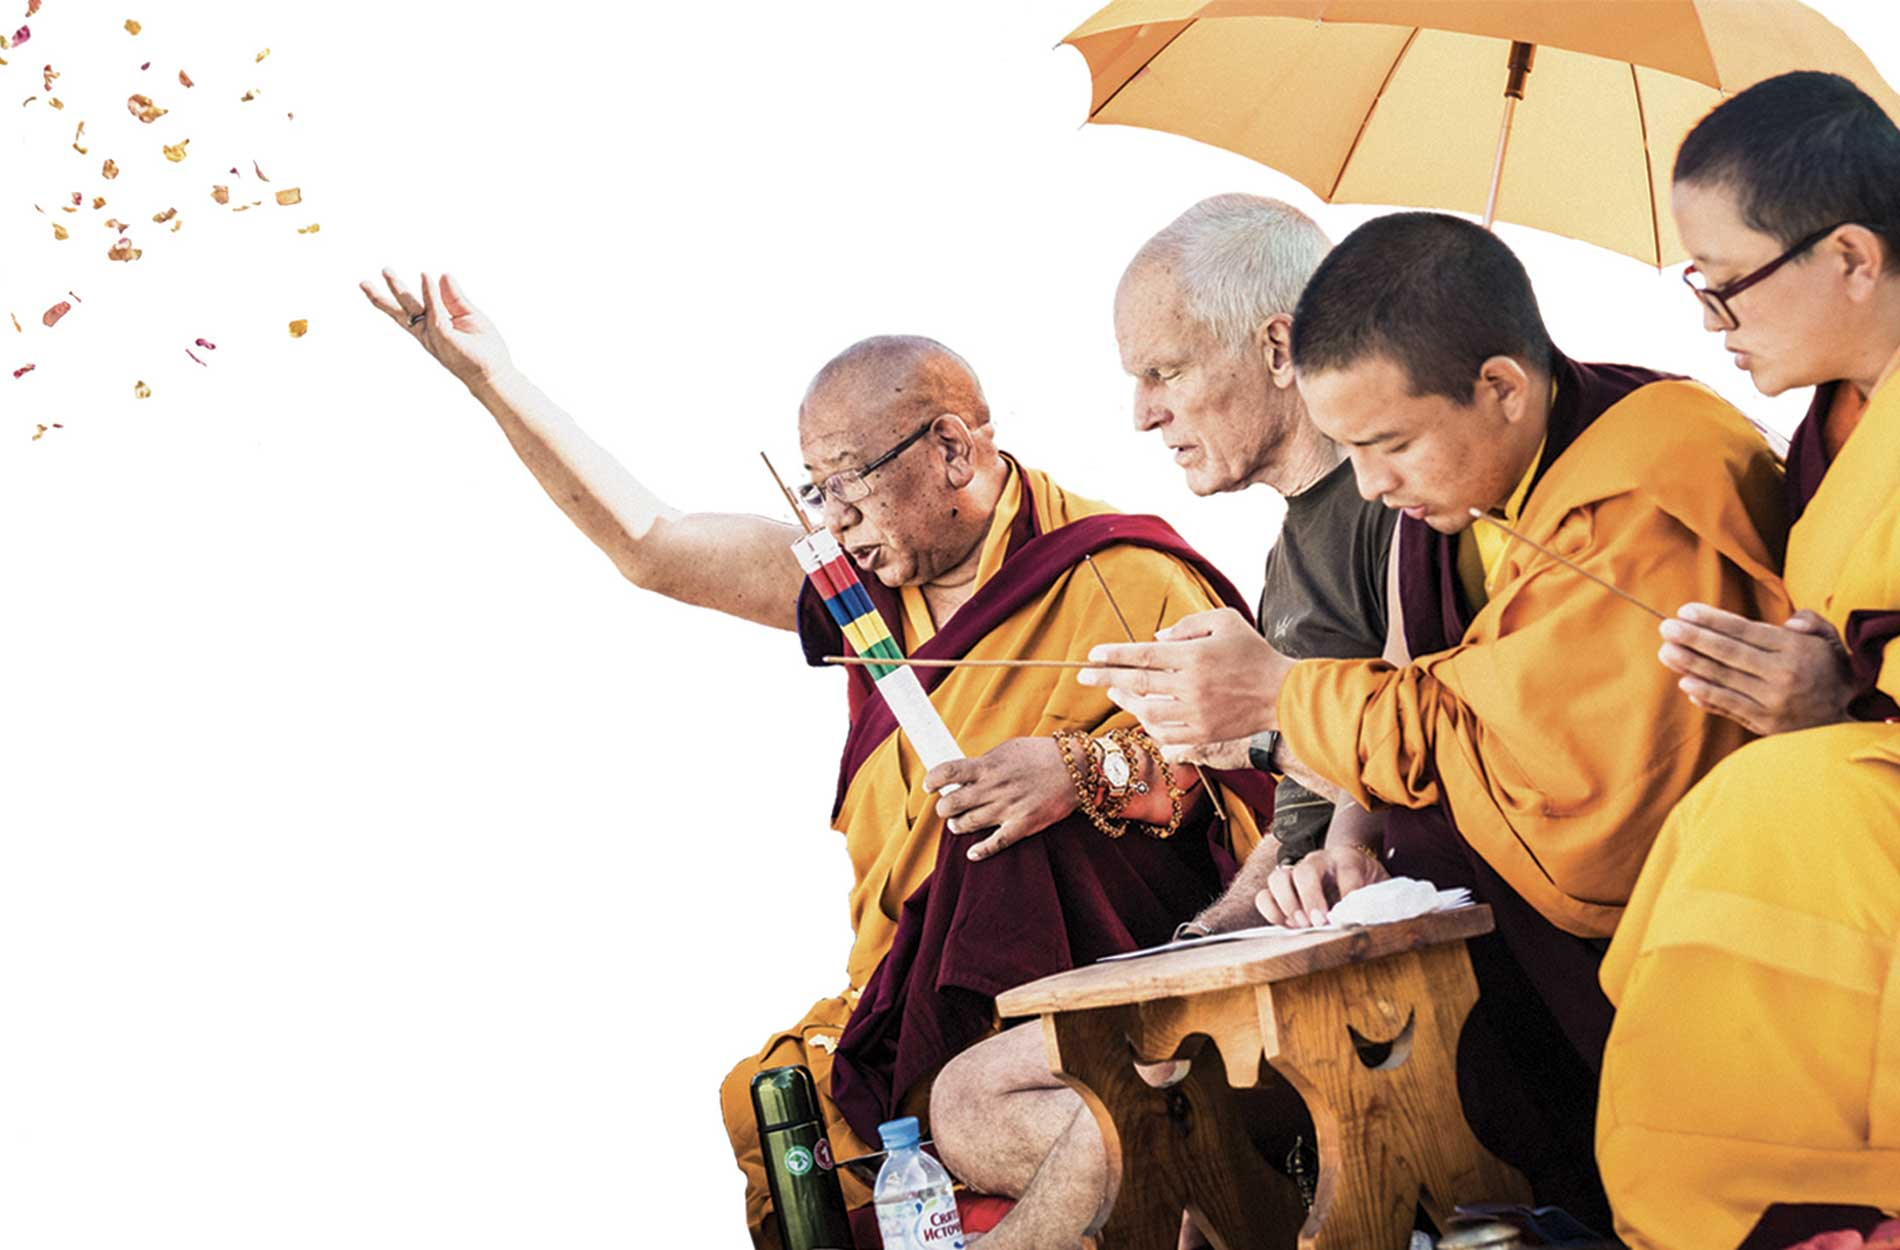
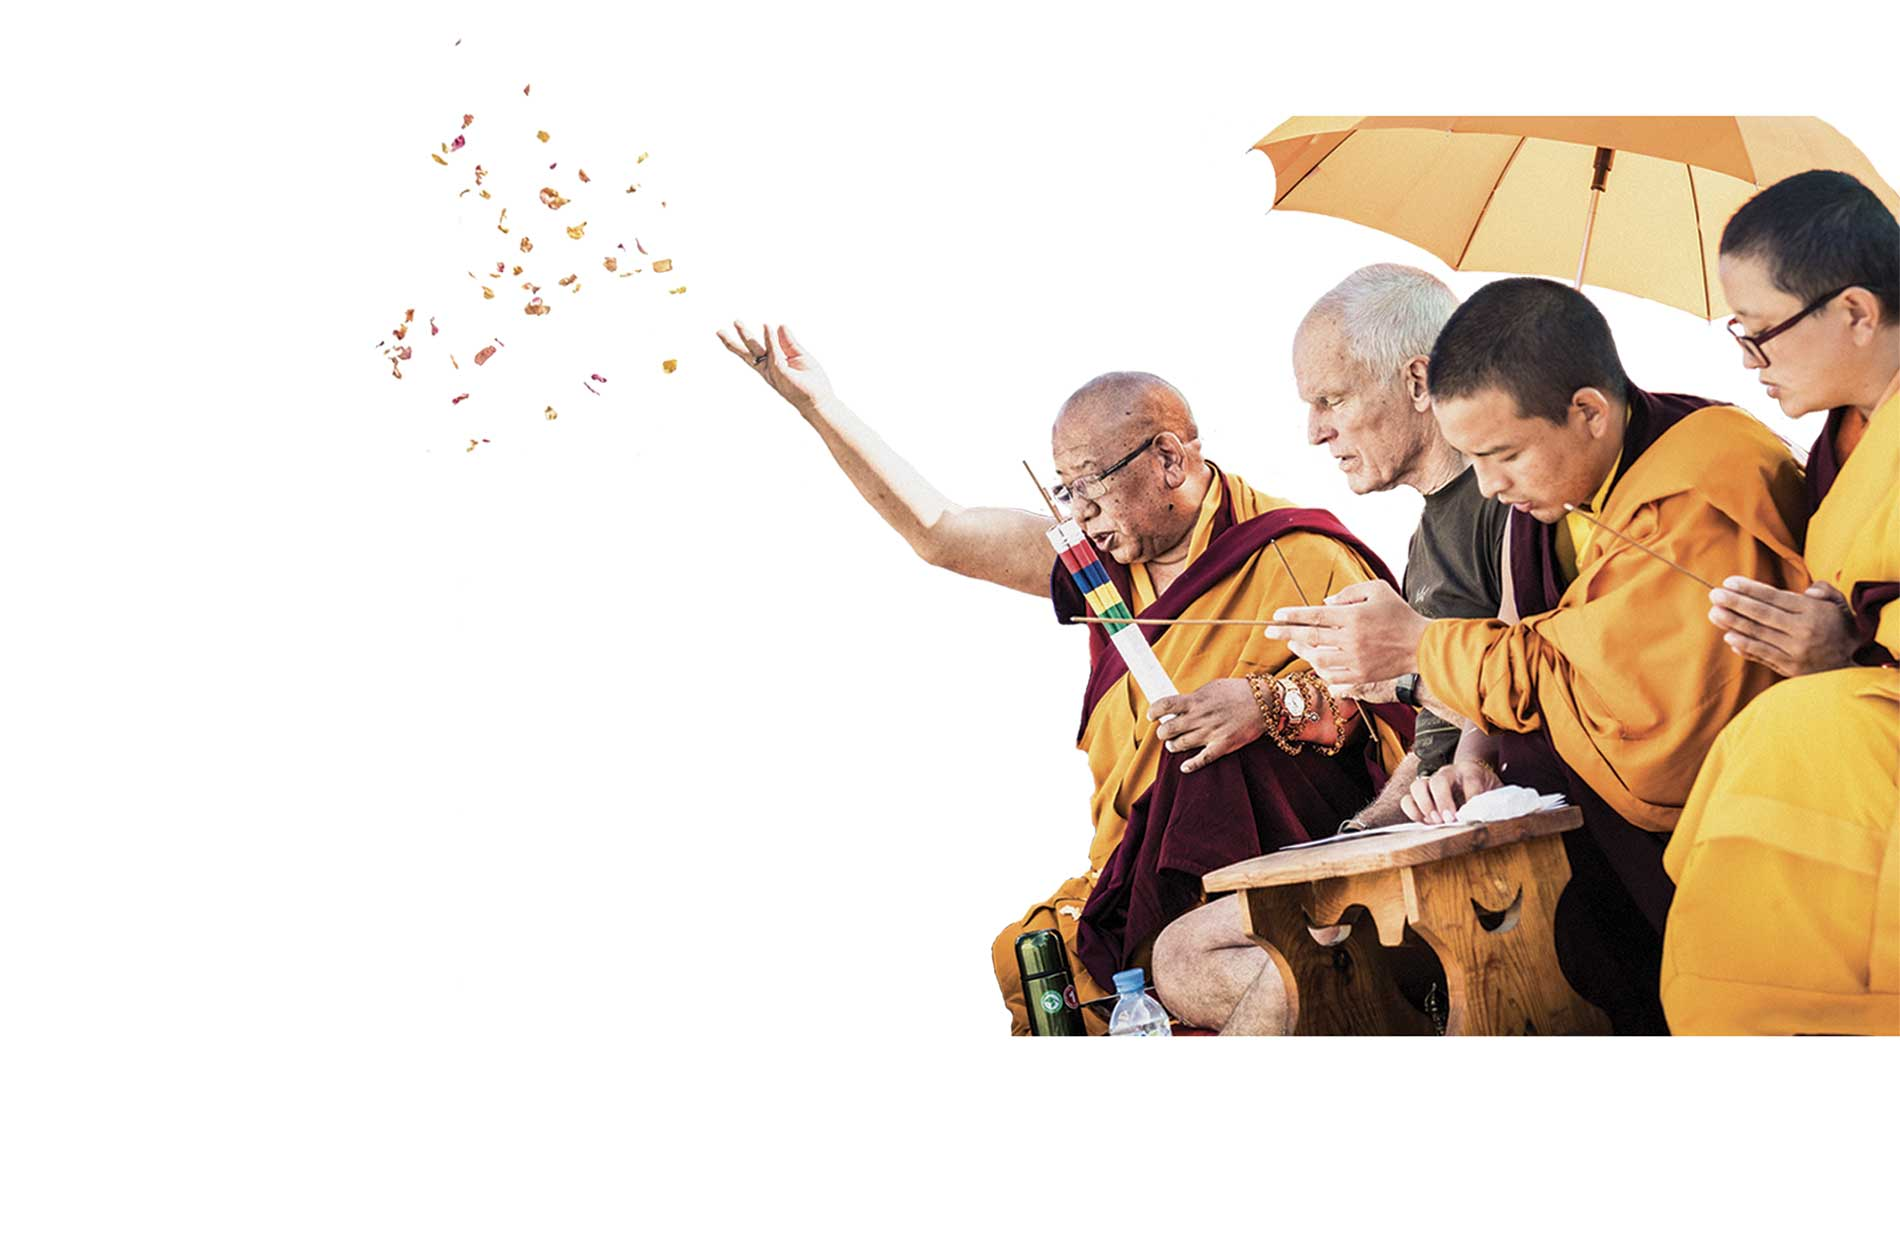
1.st commit

diff --git a/index.html b/index.html
@@ -1,17 +1,17 @@
-<!DOCTYPE html>
+<!doctype html>
 <html lang="en">
 
 <head>
-
+    <!-- Required meta tags -->
     <meta charset="utf-8">
     <meta name="viewport" content="width=device-width, initial-scale=1, shrink-to-fit=no">
     <meta name="description" content="">
-    <meta name="author" content="">
+    <meta name="author" content="KKS School">
 
-    <title>Agency - Start Bootstrap Theme</title>
+    <!-- Bootstrap CSS -->
+    <link rel="stylesheet" href="https://stackpath.bootstrapcdn.com/bootstrap/4.1.3/css/bootstrap.min.css" integrity="sha384-MCw98/SFnGE8fJT3GXwEOngsV7Zt27NXFoaoApmYm81iuXoPkFOJwJ8ERdknLPMO" crossorigin="anonymous">
 
-    <!-- Bootstrap core CSS -->
-    <link href="vendor/bootstrap/css/bootstrap.min.css" rel="stylesheet">
+    <title>Victory Stupa Inauguration course with Sherab Gyaltsen Rinpoche and Lama Ole Nydahl</title>
 
     <!-- Custom fonts for this template -->
     <link href="vendor/fontawesome-free/css/all.min.css" rel="stylesheet" type="text/css">
@@ -22,15 +22,17 @@
 
     <!-- Custom styles for this template -->
     <link href="css/style.css" rel="stylesheet">
-
 </head>
+
+
+
 
 <body id="page-top">
 
     <!-- Navigation -->
     <nav class="navbar navbar-expand-lg navbar-dark fixed-top" id="mainNav">
         <div class="container">
-            <a class="navbar-brand js-scroll-trigger" href="#page-top"><img src="../img/CPH_Stupa-Logo.png" width="100" height="auto"></a>
+            <a class="navbar-brand js-scroll-trigger" href="#page-top"><img src="../img/CPH_Stupa-Logo.png" width="90" height="auto" alt="Copenhagen Victory Stupa logo"></a>
             <button class="navbar-toggler navbar-toggler-right" type="button" data-toggle="collapse" data-target="#navbarResponsive" aria-controls="navbarResponsive" aria-expanded="false" aria-label="Toggle navigation">
         Menu
         <i class="fas fa-bars"></i>
@@ -41,16 +43,26 @@
                         <a class="nav-link js-scroll-trigger" href="#program">Program</a>
                     </li>
                     <li class="nav-item">
-                        <a class="nav-link js-scroll-trigger" href="#portfolio">Location</a>
+                        <a class="nav-link js-scroll-trigger" href="#registration">Registration</a>
                     </li>
                     <li class="nav-item">
-                        <a class="nav-link js-scroll-trigger" href="#about">About</a>
+                        <a class="nav-link js-scroll-trigger" href="#location">Location</a>
+                    </li>
+                    <li class="nav-item dropdown">
+                        <a href="#" class="nav-link dropdown-toggle" href="#practical" data-toggle="dropdown">Practical</a>
+                        <div class="dropdown-menu">
+                            <a href="#practical" class="dropdown-item nav-link js-scroll-trigger">Accommodation</a>
+                            <a href="#" class="dropdown-item nav-link js-scroll-trigger">Children on site</a>
+                            <a href="#" class="dropdown-item nav-link js-scroll-trigger">Transport</a>
+                            <a class="nav-link js-scroll-trigger" href="#contact">Contact</a>
+                        </div>
                     </li>
                     <li class="nav-item">
-                        <a class="nav-link js-scroll-trigger" href="#team">Team</a>
+                        <a class="nav-link js-scroll-trigger" href="#about">About the project</a>
                     </li>
+
                     <li class="nav-item">
-                        <a class="nav-link js-scroll-trigger" href="#contact">Contact</a>
+
                     </li>
                 </ul>
             </div>
@@ -59,7 +71,7 @@
 
     <!-- Header -->
     <header class="masthead">
-        <div class="container">
+        <div class="container-fluid">
             <div class="intro-text">
                 <div class="intro-lead-in">Victory Stupa Inauguration course with Sherab Gyaltsen Rinpoche and Lama Ole Nydahl</div>
                 <div class="intro-heading text-uppercase">19-21 July 2019, Copenhagen</div>
@@ -67,13 +79,14 @@
             </div>
         </div>
     </header>
+
     <!-- Program -->
     <section class="page-section" id="program">
         <div class="container">
             <div class="row">
                 <div class="col-lg-12 text-center">
                     <h2 class="section-heading text-uppercase">Program</h2>
-                    <h3 class="section-subheading text-muted">Lorem ipsum dolor sit amet consectetur.</h3>
+                    <h3 class="section-subheading text-muted">Note, that program and times are always subject to change.</h3>
                 </div>
             </div>
             <div class="row">
@@ -81,43 +94,43 @@
                     <ul class="timeline">
                         <li>
                             <div class="timeline-image">
-                                <img class="rounded-circle img-fluid" src="img/about/1.jpg" alt="">
+                                <img class="rounded-circle img-fluid" src="img/lamas/lama_ole_nydahl.jpg" alt="">
                             </div>
                             <div class="timeline-panel">
                                 <div class="timeline-heading">
-                                    <h4>19th of July</h4>
-                                    <h4 class="subheading">Lecture with Lama Ole Nydhal</h4>
+                                    <h4>19.07 16:00</h4>
+                                    <h4 class="subheading">Public lecture with Lama Ole Nydahl</h4>
                                 </div>
                                 <div class="timeline-body">
-                                    <p class="text-muted">Lorem ipsum dolor sit amet, consectetur adipisicing elit. </p>
+                                    <p class="text-muted">Lecture starts at 16:00. Please come in advance for registration on-site.</p>
                                 </div>
                             </div>
                         </li>
                         <li class="timeline-inverted">
                             <div class="timeline-image">
-                                <img class="rounded-circle img-fluid" src="img/about/2.jpg" alt="">
+                                <img class="rounded-circle img-fluid" src="img/lamas/Stupa_model.jpg" alt="">
                             </div>
                             <div class="timeline-panel">
                                 <div class="timeline-heading">
                                     <h4>20th of July</h4>
-                                    <h4 class="subheading">Victory Stupa Inauguration</h4>
+                                    <h4 class="subheading">Inauguration of the Copenhagen Victory Stupa</h4>
                                 </div>
                                 <div class="timeline-body">
-                                    <p class="text-muted">Lorem ipsum dolor sit amet, consectetur adipisicing elit. </p>
+                                    <p class="text-muted">10:00 </p>
                                 </div>
                             </div>
                         </li>
                         <li>
                             <div class="timeline-image">
-                                <img class="rounded-circle img-fluid" src="img/about/3.jpg" alt="">
+                                <img class="rounded-circle img-fluid" src="img/lamas/Sherab_gyaltsen_rinpoche.jpg" alt="">
                             </div>
                             <div class="timeline-panel">
                                 <div class="timeline-heading">
                                     <h4>20th of July</h4>
-                                    <h4 class="subheading">Empowerment</h4>
+                                    <h4 class="subheading">Initiation by Sherab Gyaltsen Rinpoche into Buddha of Limitless Light</h4>
                                 </div>
                                 <div class="timeline-body">
-                                    <p class="text-muted">Lorem ipsum dolor sit amet, consectetur adipisicing elit. </p>
+                                    <p class="text-muted">Starts at 10:00.</p>
                                 </div>
                             </div>
                         </li>
@@ -126,13 +139,17 @@
             </div>
         </div>
     </section>
-    <!-- Services -->
-    <section class="page-section" id="services">
+
+
+    <!-- Location -->
+    <section class="page-section" id="location">
         <div class="container">
             <div class="row">
                 <div class="col-lg-12 text-center">
-                    <h2 class="section-heading text-uppercase">Services</h2>
-                    <h3 class="section-subheading text-muted">Lorem ipsum dolor sit amet consectetur.</h3>
+                    <h2 class="section-heading text-uppercase">Course location</h2>
+                    <h3 class="section-subheading text-muted">The course will take place at the Buddhist center at Svanemøllevej 56, 2100 Copenhagen Ø Please bring your own matts, blankets and cushions (part of the sitting places we will on the grass and on a carpet on a concrete floor). The
+                        S-station closest to the place is “Svanemøllen” and “Hellerup” (1,1 km). The closest bus station is Strandøre (Strandvejen) (200 m).
+                    </h3>
                 </div>
             </div>
             <div class="row text-center">
@@ -164,8 +181,8 @@
         </div>
     </section>
 
-    <!-- Portfolio Grid -->
-    <section class="bg-light page-section" id="portfolio">
+    <!-- Practical Grid -->
+    <section class="bg-light page-section" id="practical">
         <div class="container">
             <div class="row">
                 <div class="col-lg-12 text-center">
@@ -679,10 +696,11 @@
             </div>
         </div>
     </div>
-
-    <!-- Bootstrap core JavaScript -->
-    <script src="vendor/jquery/jquery.min.js"></script>
-    <script src="vendor/bootstrap/js/bootstrap.bundle.min.js"></script>
+    <!-- Optional JavaScript -->
+    <!-- jQuery first, then Popper.js, then Bootstrap JS -->
+    <script src="https://code.jquery.com/jquery-3.3.1.slim.min.js" integrity="sha384-q8i/X+965DzO0rT7abK41JStQIAqVgRVzpbzo5smXKp4YfRvH+8abtTE1Pi6jizo" crossorigin="anonymous"></script>
+    <script src="https://cdnjs.cloudflare.com/ajax/libs/popper.js/1.14.3/umd/popper.min.js" integrity="sha384-ZMP7rVo3mIykV+2+9J3UJ46jBk0WLaUAdn689aCwoqbBJiSnjAK/l8WvCWPIPm49" crossorigin="anonymous"></script>
+    <script src="https://stackpath.bootstrapcdn.com/bootstrap/4.1.3/js/bootstrap.min.js" integrity="sha384-ChfqqxuZUCnJSK3+MXmPNIyE6ZbWh2IMqE241rYiqJxyMiZ6OW/JmZQ5stwEULTy" crossorigin="anonymous"></script>
 
     <!-- Plugin JavaScript -->
     <script src="vendor/jquery-easing/jquery.easing.min.js"></script>

diff --git a/css/style.css b/css/style.css
@@ -14,7 +14,7 @@ p {
 }
 
 a {
-    color: #fed136;
+    color: #CC3333;
 }
 
 a:hover {
@@ -22,7 +22,7 @@ a:hover {
 }
 
 .text-primary {
-    color: #fed136 !important;
+    color: #CC3333 !important;
 }
 
 h1,
@@ -46,7 +46,7 @@ h6 {
 }
 
 .page-section h3.section-subheading {
-    font-size: 16px;
+    font-size: 18px;
     font-weight: 400;
     font-style: italic;
     margin-bottom: 75px;
@@ -71,15 +71,15 @@ h6 {
 }
 
 .btn-primary {
-    background-color: #fed136;
-    border-color: #fed136;
+    background-color: #CC3333;
+    border-color: #CC3333;
 }
 
 .btn-primary:active,
 .btn-primary:focus,
 .btn-primary:hover {
-    background-color: #fec810 !important;
-    border-color: #fec810 !important;
+    background-color: #CC3333 !important;
+    border-color: #CC3333 !important;
     color: white;
 }
 
@@ -111,6 +111,9 @@ img::-moz-selection {
     background: transparent;
 }
 
+
+/* upper navigation */
+
 #mainNav {
     background-color: #212529;
 }
@@ -122,12 +125,12 @@ img::-moz-selection {
     text-transform: uppercase;
     color: white;
     border: 0;
-    background-color: #fed136;
+    background-color: #CC3333;
     font-family: 'Montserrat', -apple-system, BlinkMacSystemFont, 'Segoe UI', Roboto, 'Helvetica Neue', Arial, sans-serif, 'Apple Color Emoji', 'Segoe UI Emoji', 'Segoe UI Symbol', 'Noto Color Emoji';
 }
 
 #mainNav .navbar-brand {
-    color: #fed136;
+    color: #CC3333;
     font-family: 'Kaushan Script', -apple-system, BlinkMacSystemFont, 'Segoe UI', Roboto, 'Helvetica Neue', Arial, sans-serif, 'Apple Color Emoji', 'Segoe UI Emoji', 'Segoe UI Symbol', 'Noto Color Emoji';
 }
 
@@ -135,7 +138,7 @@ img::-moz-selection {
 #mainNav .navbar-brand:active,
 #mainNav .navbar-brand:focus,
 #mainNav .navbar-brand:hover {
-    color: #fec503;
+    color: #CC3333;
 }
 
 #mainNav .navbar-nav .nav-item .nav-link {
@@ -143,13 +146,14 @@ img::-moz-selection {
     font-weight: 400;
     padding: 0.75em 0;
     letter-spacing: 1px;
-    color: white;
+    color: #000000;
     font-family: 'Montserrat', -apple-system, BlinkMacSystemFont, 'Segoe UI', Roboto, 'Helvetica Neue', Arial, sans-serif, 'Apple Color Emoji', 'Segoe UI Emoji', 'Segoe UI Symbol', 'Noto Color Emoji';
 }
 
 #mainNav .navbar-nav .nav-item .nav-link.active,
 #mainNav .navbar-nav .nav-item .nav-link:hover {
-    color: #fed136;
+    color: white;
+    background-color: #CC3333;
 }
 
 @media (min-width: 992px) {
@@ -172,7 +176,7 @@ img::-moz-selection {
     #mainNav.navbar-shrink {
         padding-top: 0;
         padding-bottom: 0;
-        background-color: #212529;
+        background-color: white;
     }
     #mainNav.navbar-shrink .navbar-brand {
         font-size: 1.25em;
@@ -181,30 +185,32 @@ img::-moz-selection {
 }
 
 header.masthead {
-    text-align: center;
-    color: white;
+    color: #000000;
     background-image: url("../img/victorystupa_frontpage.jpg");
     background-repeat: no-repeat;
     background-attachment: scroll;
-    background-position: center center;
+    background-position: center;
     background-size: cover;
 }
 
 header.masthead .intro-text {
-    padding-top: 150px;
+    text-align: left;
+    padding-top: 100px;
     padding-bottom: 100px;
+    padding-right: 50%;
+    padding-left: 5%;
 }
 
 header.masthead .intro-text .intro-lead-in {
-    font-size: 22px;
-    font-style: italic;
-    line-height: 22px;
-    margin-bottom: 25px;
-    font-family: 'Droid Serif', -apple-system, BlinkMacSystemFont, 'Segoe UI', Roboto, 'Helvetica Neue', Arial, sans-serif, 'Apple Color Emoji', 'Segoe UI Emoji', 'Segoe UI Symbol', 'Noto Color Emoji';
+    font-size: 30px;
+    font-style: normal !important;
+    line-height: 36px;
+    margin-bottom: 30px;
+    font-family: 'Montserrat', -apple-system, BlinkMacSystemFont, 'Segoe UI', Roboto, 'Helvetica Neue', Arial, sans-serif, 'Apple Color Emoji', 'Segoe UI Emoji', 'Segoe UI Symbol', 'Noto Color Emoji';
 }
 
 header.masthead .intro-text .intro-heading {
-    font-size: 50px;
+    font-size: 30px;
     font-weight: 700;
     line-height: 50px;
     margin-bottom: 25px;
@@ -218,15 +224,15 @@ header.masthead .intro-text .intro-heading {
     }
     header.masthead .intro-text .intro-lead-in {
         font-size: 40px;
-        font-style: italic;
-        line-height: 40px;
-        margin-bottom: 25px;
-        font-family: 'Droid Serif', -apple-system, BlinkMacSystemFont, 'Segoe UI', Roboto, 'Helvetica Neue', Arial, sans-serif, 'Apple Color Emoji', 'Segoe UI Emoji', 'Segoe UI Symbol', 'Noto Color Emoji';
+        font-style: normal;
+        line-height: 50px;
+        margin-bottom: 30px;
+        font-family: 'Montserrat', -apple-system, BlinkMacSystemFont, 'Segoe UI', Roboto, 'Helvetica Neue', Arial, sans-serif, 'Apple Color Emoji', 'Segoe UI Emoji', 'Segoe UI Symbol', 'Noto Color Emoji';
     }
     header.masthead .intro-text .intro-heading {
-        font-size: 75px;
+        font-size: 50px;
         font-weight: 700;
-        line-height: 75px;
+        line-height: 60x;
         margin-bottom: 50px;
         font-family: 'Montserrat', -apple-system, BlinkMacSystemFont, 'Segoe UI', Roboto, 'Helvetica Neue', Arial, sans-serif, 'Apple Color Emoji', 'Segoe UI Emoji', 'Segoe UI Symbol', 'Noto Color Emoji';
     }
